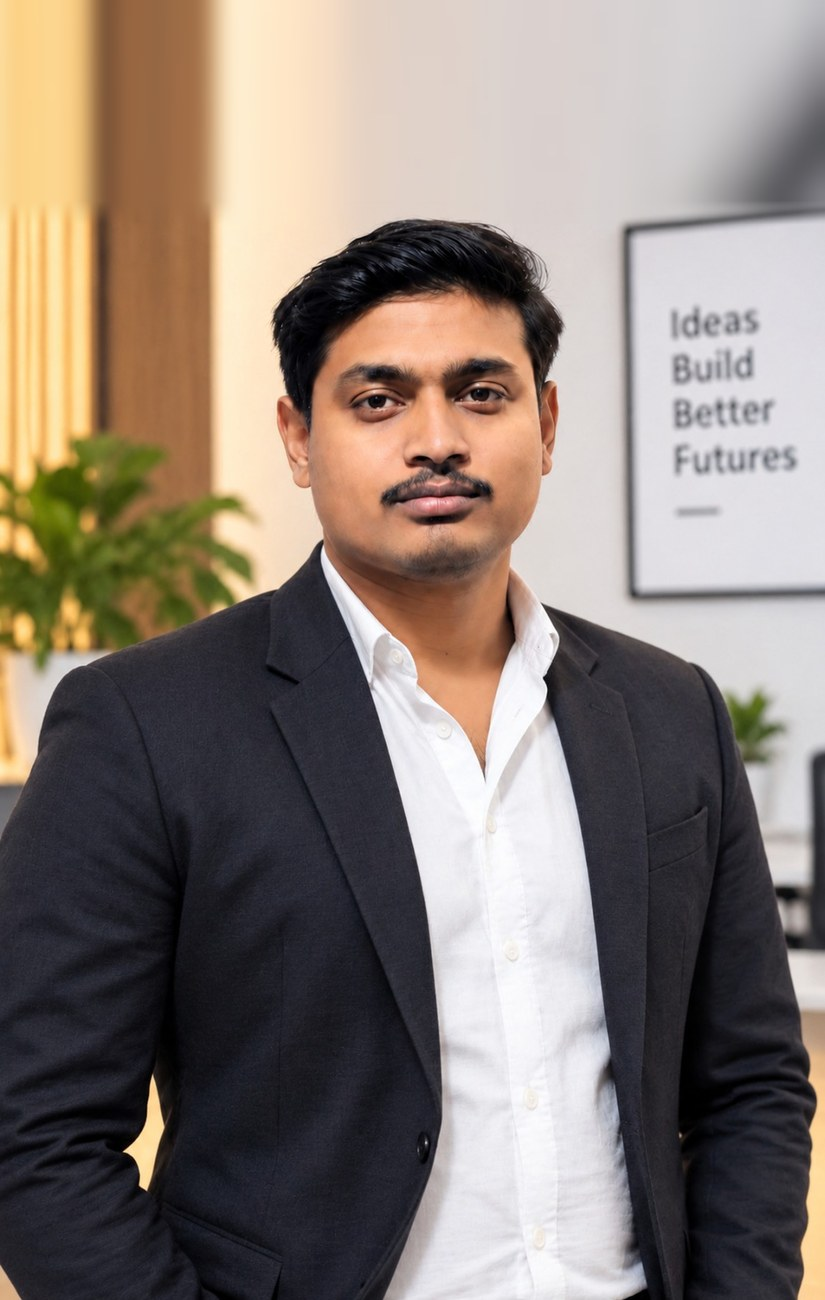
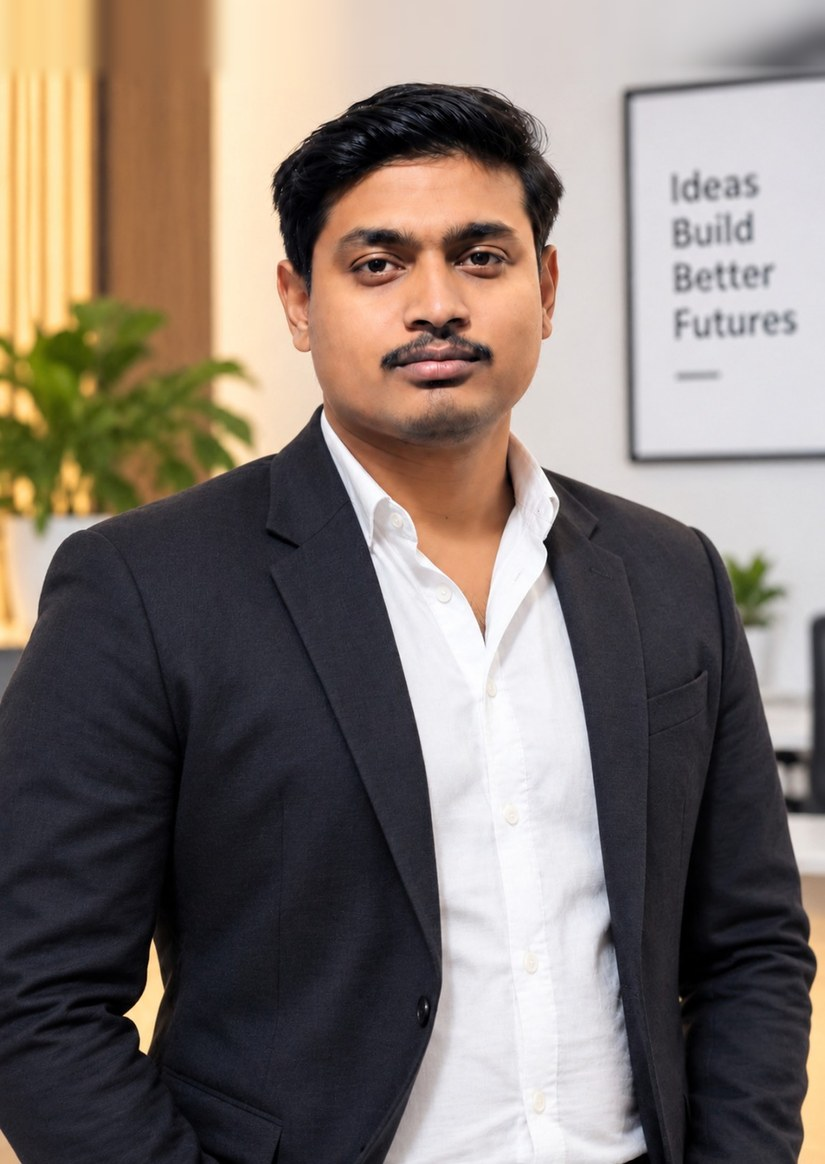
Smoother scrolling; tighter hero headroom
Scroll performance:
- Animations in off-screen sections are paused (IntersectionObserver),
  cutting running animations from 111 to ~25, spinning rings from ~85 to 6-10
- Large card outlines keep their gradient but only spin on hover/focus;
  buttons and labels still spin
- Scroll handler throttled to one requestAnimationFrame, reads before writes,
  nav-link classes only touched when the active section changes
- Progress bar uses transform: scaleX instead of width (no layout)
- WhatsApp pulse and offer shine animate transform instead of box-shadow/left
- No backdrop blur behind the navbar/sticky switch on phones and tablets,
  none on section labels

Hero: headroom above the head reduced to ~50px (phones) / ~75px (desktop);
smaller top fade keeps the hair crisp

diff --git a/style.css b/style.css
@@ -295,7 +295,10 @@ section[id] {
   left: 0;
   bottom: 0;
   height: 3px;
-  width: 0;
+  width: 100%;
+  transform: scaleX(0);
+  transform-origin: left center;
+  will-change: transform;
   border-radius: 0 3px 3px 0;
   background: linear-gradient(90deg, var(--purple), var(--purple-light));
 }
@@ -1855,10 +1858,10 @@ section[id] {
 .girls-offer::after {
   content: "";
   position: absolute;
-  inset: 0 auto 0 -40%;
+  inset: 0 auto 0 0;
   width: 35%;
   background: linear-gradient(90deg, transparent, rgba(255, 255, 255, 0.28), transparent);
-  transform: skewX(-18deg);
+  transform: translateX(-120%) skewX(-18deg);
   animation: offer-shine 4.5s ease-in-out infinite;
   pointer-events: none;
 }
@@ -1866,10 +1869,10 @@ section[id] {
 @keyframes offer-shine {
   0%,
   55% {
-    left: -40%;
+    transform: translateX(-120%) skewX(-18deg);
   }
   100% {
-    left: 130%;
+    transform: translateX(380%) skewX(-18deg);
   }
 }
 
@@ -4601,12 +4604,12 @@ html[lang="hi"] li {
   inset: 0;
   -webkit-mask-image:
     linear-gradient(to right, transparent 0%, #000 36%),
-    linear-gradient(to bottom, transparent 0%, #000 9%),
+    linear-gradient(to bottom, transparent 0%, #000 5%),
     linear-gradient(to top, transparent 0%, #000 24%);
   -webkit-mask-composite: source-in;
   mask-image:
     linear-gradient(to right, transparent 0%, #000 36%),
-    linear-gradient(to bottom, transparent 0%, #000 9%),
+    linear-gradient(to bottom, transparent 0%, #000 5%),
     linear-gradient(to top, transparent 0%, #000 24%);
   mask-composite: intersect;
 }
@@ -4856,4 +4859,136 @@ html[lang="hi"] li {
 html[lang="hi"] .hero-section h1 {
   letter-spacing: 0;
   line-height: 1.2;
+}
+
+/* =========================================================
+   15. SCROLL PERFORMANCE
+   ========================================================= */
+/* Animations in off-screen sections are frozen (class set by script.js). */
+.is-offscreen *,
+.is-offscreen *::before,
+.is-offscreen *::after {
+  animation-play-state: paused !important;
+}
+
+/* Large cards keep their colourful outline, but it only spins while hovered or focused.
+   Repainting big rotating gradients every frame was the main cause of scroll lag;
+   buttons and labels (small) keep spinning all the time. */
+.program-card::after,
+.why-card::after,
+.contact-form::after,
+.library-focus-banner::after,
+.faculty-card::before,
+.gallery-card::before,
+.library-feature::before,
+.library-panel::before,
+.library-bottom-item::before,
+.goal-card::before,
+.subjects-card::before,
+.footer-cta::before,
+.footer-contact::before,
+.map-card::before,
+.faq-accordion .accordion-item::before,
+.fee-card::before,
+.fee-table-card::before,
+.fee-includes::before,
+.faculty-modal .modal-content::before,
+.hero-stats::before,
+#navbarMenu::before {
+  animation-play-state: paused;
+}
+
+.program-card:hover::after,
+.why-card:hover::after,
+.contact-form:focus-within::after,
+.library-focus-banner:hover::after,
+.faculty-card:hover::before,
+.gallery-card:hover::before,
+.library-feature:hover::before,
+.library-panel:hover::before,
+.library-bottom-item:hover::before,
+.goal-card:hover::before,
+.subjects-card:hover::before,
+.footer-cta:hover::before,
+.footer-contact:hover::before,
+.map-card:hover::before,
+.faq-accordion .accordion-item:hover::before,
+.fee-card:hover::before,
+.fee-table-card:hover::before,
+.fee-includes:hover::before,
+.hero-stats:hover::before {
+  animation-play-state: running;
+}
+
+/* WhatsApp pulse: a scaling ring (GPU) instead of an animated box-shadow (repaint) */
+.floating-whatsapp {
+  animation: none;
+}
+
+.floating-whatsapp::after {
+  content: "";
+  position: absolute;
+  inset: 0;
+  z-index: -1;
+  border-radius: 50%;
+  background: rgba(37, 211, 102, 0.45);
+  animation: wa-pulse 2.4s ease-out infinite;
+  pointer-events: none;
+}
+
+@keyframes wa-pulse {
+  0% {
+    transform: scale(1);
+    opacity: 0.8;
+  }
+  70%,
+  100% {
+    transform: scale(1.6);
+    opacity: 0;
+  }
+}
+
+/* small blur effects add up while scrolling; solid tints look the same */
+.eyebrow-pill {
+  -webkit-backdrop-filter: none;
+  backdrop-filter: none;
+  background: rgba(255, 255, 255, 0.85);
+}
+
+.hero-section .eyebrow-pill {
+  background: rgba(255, 255, 255, 0.08);
+}
+
+/* phones & tablets: no live blur behind the fixed navbar or sticky switch */
+@media (max-width: 991.98px) {
+  #mainNav,
+  #mainNav.scrolled {
+    -webkit-backdrop-filter: none;
+    backdrop-filter: none;
+    background: rgba(255, 255, 255, 0.98);
+  }
+
+  .fees-tabs,
+  .gallery-control,
+  .faculty-nav {
+    -webkit-backdrop-filter: none !important;
+    backdrop-filter: none !important;
+  }
+
+  .fees-tabs {
+    background: #fff;
+  }
+
+  .gallery-control,
+  .faculty-nav {
+    background: rgba(124, 58, 237, 0.92);
+  }
+}
+
+/* respect reduced motion for the new pulse too */
+@media (prefers-reduced-motion: reduce) {
+  .floating-whatsapp::after {
+    animation: none;
+    opacity: 0;
+  }
 }

diff --git a/script.js b/script.js
@@ -465,32 +465,52 @@ function hideMenu() {
   bootstrap.Collapse.getOrCreateInstance(navbarMenu, { toggle: false }).hide();
 }
 
-function onScroll() {
+let scrollTicking = false;
+let activeId = "";
+
+/* Runs at most once per frame. All layout reads happen first, then all writes, so the
+   browser never has to recalculate layout in the middle of a scroll frame. */
+function updateOnScroll() {
+  scrollTicking = false;
+
+  // ---- reads ----
   const scrolled = window.scrollY;
-  mainNav.classList.toggle("scrolled", scrolled > 30);
-
-  // The open menu folds away once the visitor scrolls on (ignores tiny address-bar jitter).
-  if (menuIsOpen() && Math.abs(scrolled - menuOpenedAt) > 60) hideMenu();
-
-  if (navProgress) {
-    const height = document.documentElement.scrollHeight - window.innerHeight;
-    navProgress.style.width = `${height > 0 ? (scrolled / height) * 100 : 0}%`;
-  }
-
-  // Fast flicks on phones can jump past a section before the observer sees it;
-  // anything already scrolled above the viewport is simply shown.
-  document.querySelectorAll(".reveal:not(.show)").forEach((el) => {
-    if (el.getBoundingClientRect().bottom < 0) el.classList.add("show");
-  });
-
+  const maxScroll = document.documentElement.scrollHeight - window.innerHeight;
   const marker = scrolled + headerOffset() + 90;
   let currentId = pageSections.length ? pageSections[0].id : "home";
   pageSections.forEach((section) => {
     if (marker >= section.offsetTop) currentId = section.id;
   });
-  navLinks.forEach((link) =>
-    link.classList.toggle("active", link.getAttribute("href") === `#${currentId}`),
+  // Fast flicks on phones can jump past a section before the observer sees it.
+  const passedReveals = [...document.querySelectorAll(".reveal:not(.show)")].filter(
+    (el) => el.getBoundingClientRect().bottom < 0,
   );
+
+  // ---- writes ----
+  mainNav.classList.toggle("scrolled", scrolled > 30);
+
+  // The open menu folds away once the visitor scrolls on (ignores tiny address-bar jitter).
+  if (menuIsOpen() && Math.abs(scrolled - menuOpenedAt) > 60) hideMenu();
+
+  // transform instead of width: the progress bar never triggers layout
+  if (navProgress) navProgress.style.transform = `scaleX(${maxScroll > 0 ? scrolled / maxScroll : 0})`;
+
+  passedReveals.forEach((el) => el.classList.add("show"));
+
+  if (currentId !== activeId) {
+    activeId = currentId;
+    navLinks.forEach((link) =>
+      link.classList.toggle("active", link.getAttribute("href") === `#${currentId}`),
+    );
+  }
+
+  if (typeof markFeesStuck === "function") markFeesStuck();
+}
+
+function onScroll() {
+  if (scrollTicking) return;
+  scrollTicking = true;
+  requestAnimationFrame(updateOnScroll);
 }
 
 function scrollToSection(selector) {
@@ -601,6 +621,7 @@ if (form) {
 
 /* ---------- Fee structure: Coaching / Library switch ---------- */
 const feesTabs = document.querySelector(".fees-tabs");
+let markFeesStuck = null;
 
 if (feesTabs) {
   const tabs = [...feesTabs.querySelectorAll(".fees-tab")];
@@ -642,16 +663,17 @@ if (feesTabs) {
     }),
   );
 
-  // Shadow under the switch only while it is actually stuck.
-  const markStuck = () => {
+  // Shadow under the switch only while it is actually stuck (phones only).
+  const stickyQuery = window.matchMedia("(max-width: 767.98px)");
+  markFeesStuck = () => {
+    if (!stickyQuery.matches) {
+      feesTabs.classList.remove("is-stuck");
+      return;
+    }
     const stuckAt = parseFloat(getComputedStyle(feesTabs).top);
-    const isStuck =
-      getComputedStyle(feesTabs).position === "sticky" &&
-      Math.abs(feesTabs.getBoundingClientRect().top - stuckAt) < 1.5;
-    feesTabs.classList.toggle("is-stuck", isStuck);
+    feesTabs.classList.toggle("is-stuck", Math.abs(feesTabs.getBoundingClientRect().top - stuckAt) < 1.5);
   };
-  window.addEventListener("scroll", markStuck, { passive: true });
-  markStuck();
+  markFeesStuck();
 
   // Arrow keys move between the two tabs (WAI-ARIA tabs pattern).
   feesTabs.addEventListener("keydown", (event) => {
@@ -724,6 +746,16 @@ langButtons.forEach((btn) =>
     if (btn.dataset.lang !== currentLang) applyLanguage(btn.dataset.lang);
   }),
 );
+
+/* ---------- Performance: freeze animations in sections that are off-screen ---------- */
+if ("IntersectionObserver" in window) {
+  const sectionWatcher = new IntersectionObserver(
+    (entries) =>
+      entries.forEach((entry) => entry.target.classList.toggle("is-offscreen", !entry.isIntersecting)),
+    { rootMargin: "120px 0px" },
+  );
+  document.querySelectorAll("main > section, .site-footer").forEach((s) => sectionWatcher.observe(s));
+}
 
 /* ---------- Start ---------- */
 buildFaculty();

diff --git a/index.html b/index.html
@@ -271,7 +271,7 @@
       rel="stylesheet"
     />
     <link href="https://cdn.jsdelivr.net/npm/bootstrap-icons@1.11.3/font/bootstrap-icons.min.css" rel="stylesheet" />
-    <link rel="stylesheet" href="style.css?v=2026-10e" />
+    <link rel="stylesheet" href="style.css?v=2026-10f" />
   </head>
 
   <body>
@@ -347,7 +347,7 @@
               class="hero-photo-img"
               fetchpriority="high"
               width="825"
-              height="1300"
+              height="1164"
             />
           </div>
           <div class="hero-photo-caption">
@@ -1311,6 +1311,6 @@
 
     <script src="https://cdn.jsdelivr.net/npm/bootstrap@5.3.3/dist/js/bootstrap.bundle.min.js"></script>
     <script src="i18n.js?v=2026-10e"></script>
-    <script src="script.js?v=2026-10c"></script>
+    <script src="script.js?v=2026-10f"></script>
   </body>
 </html>
